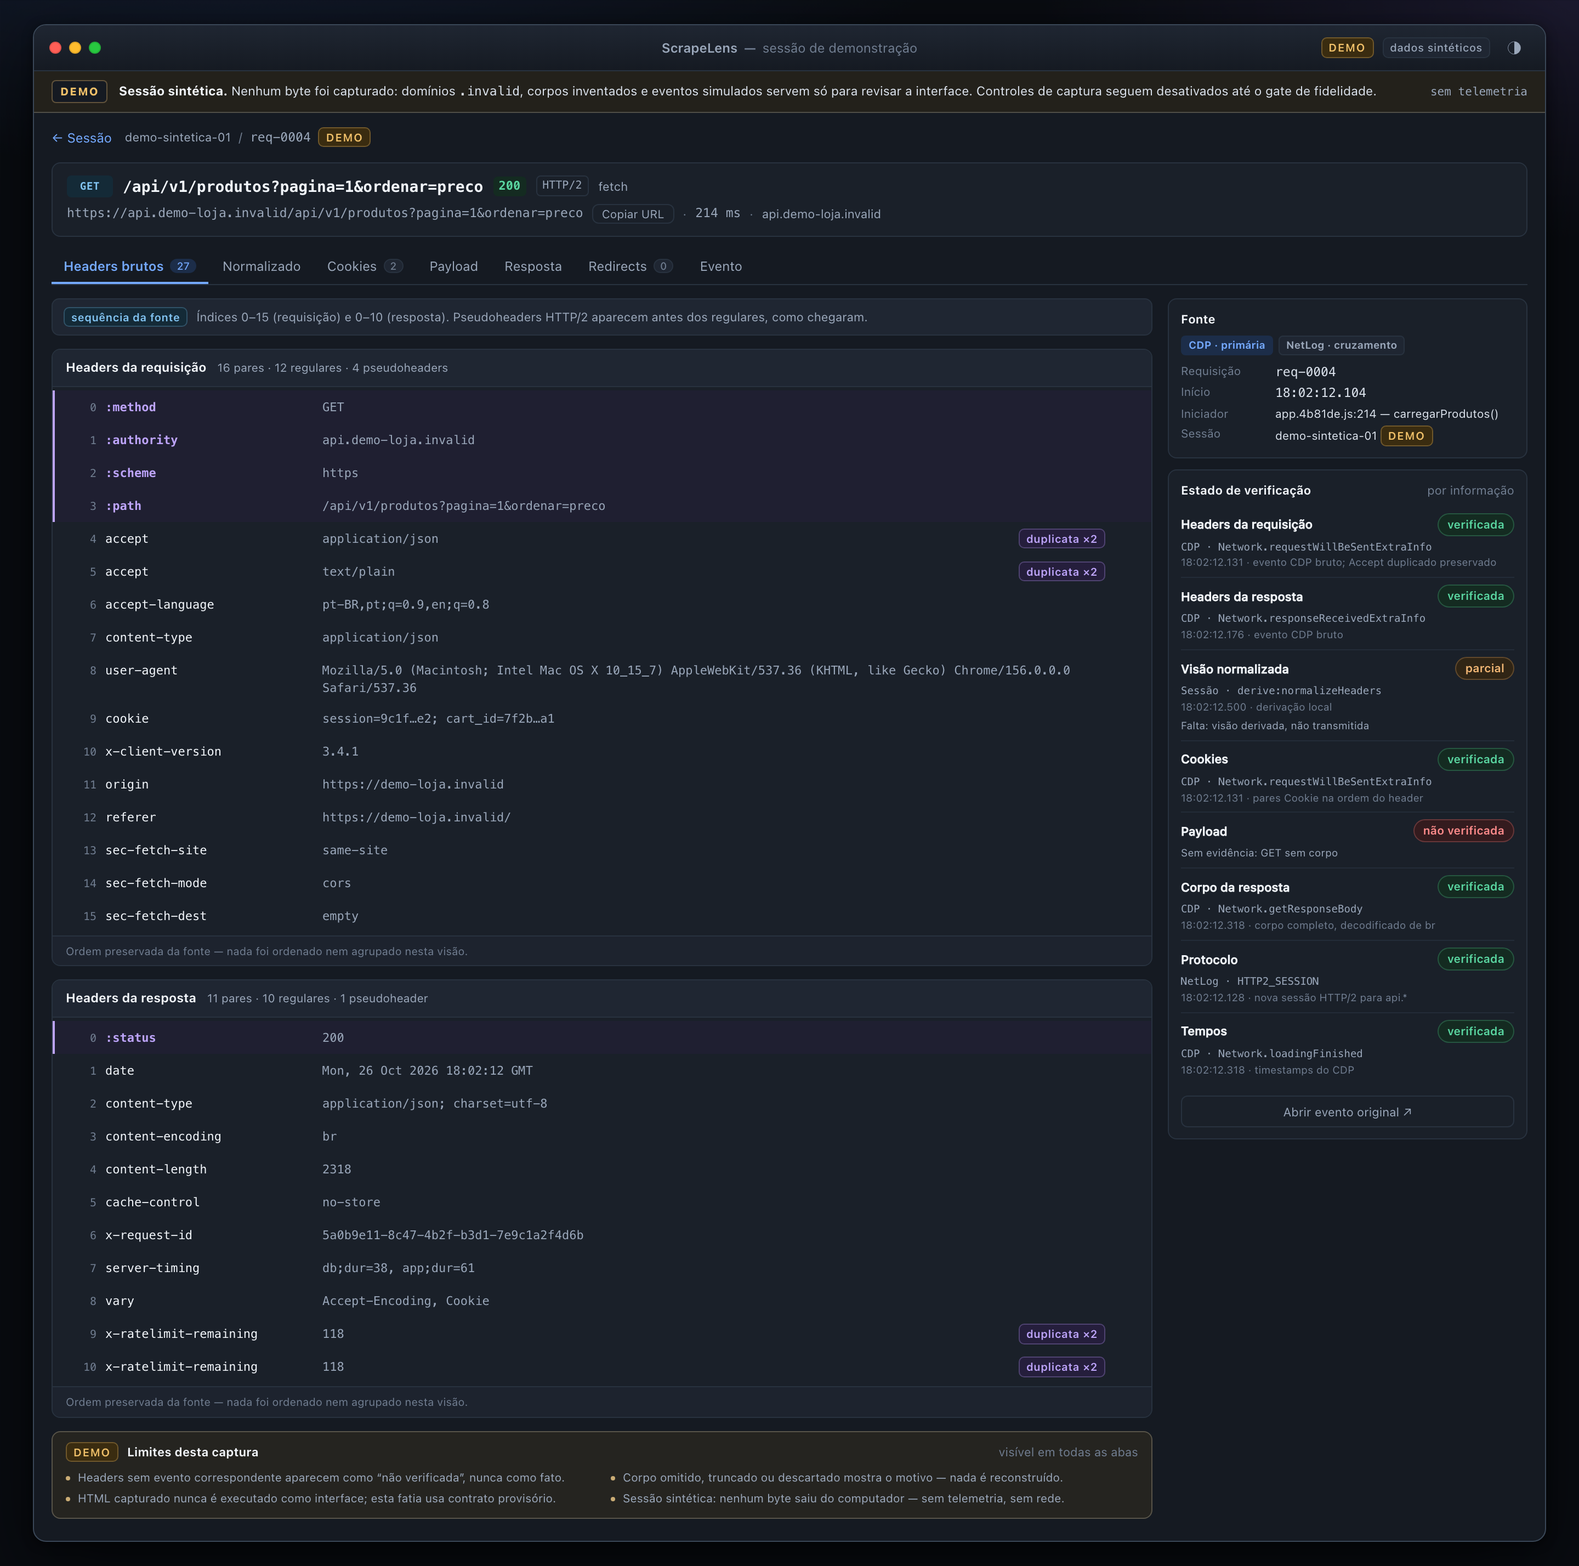
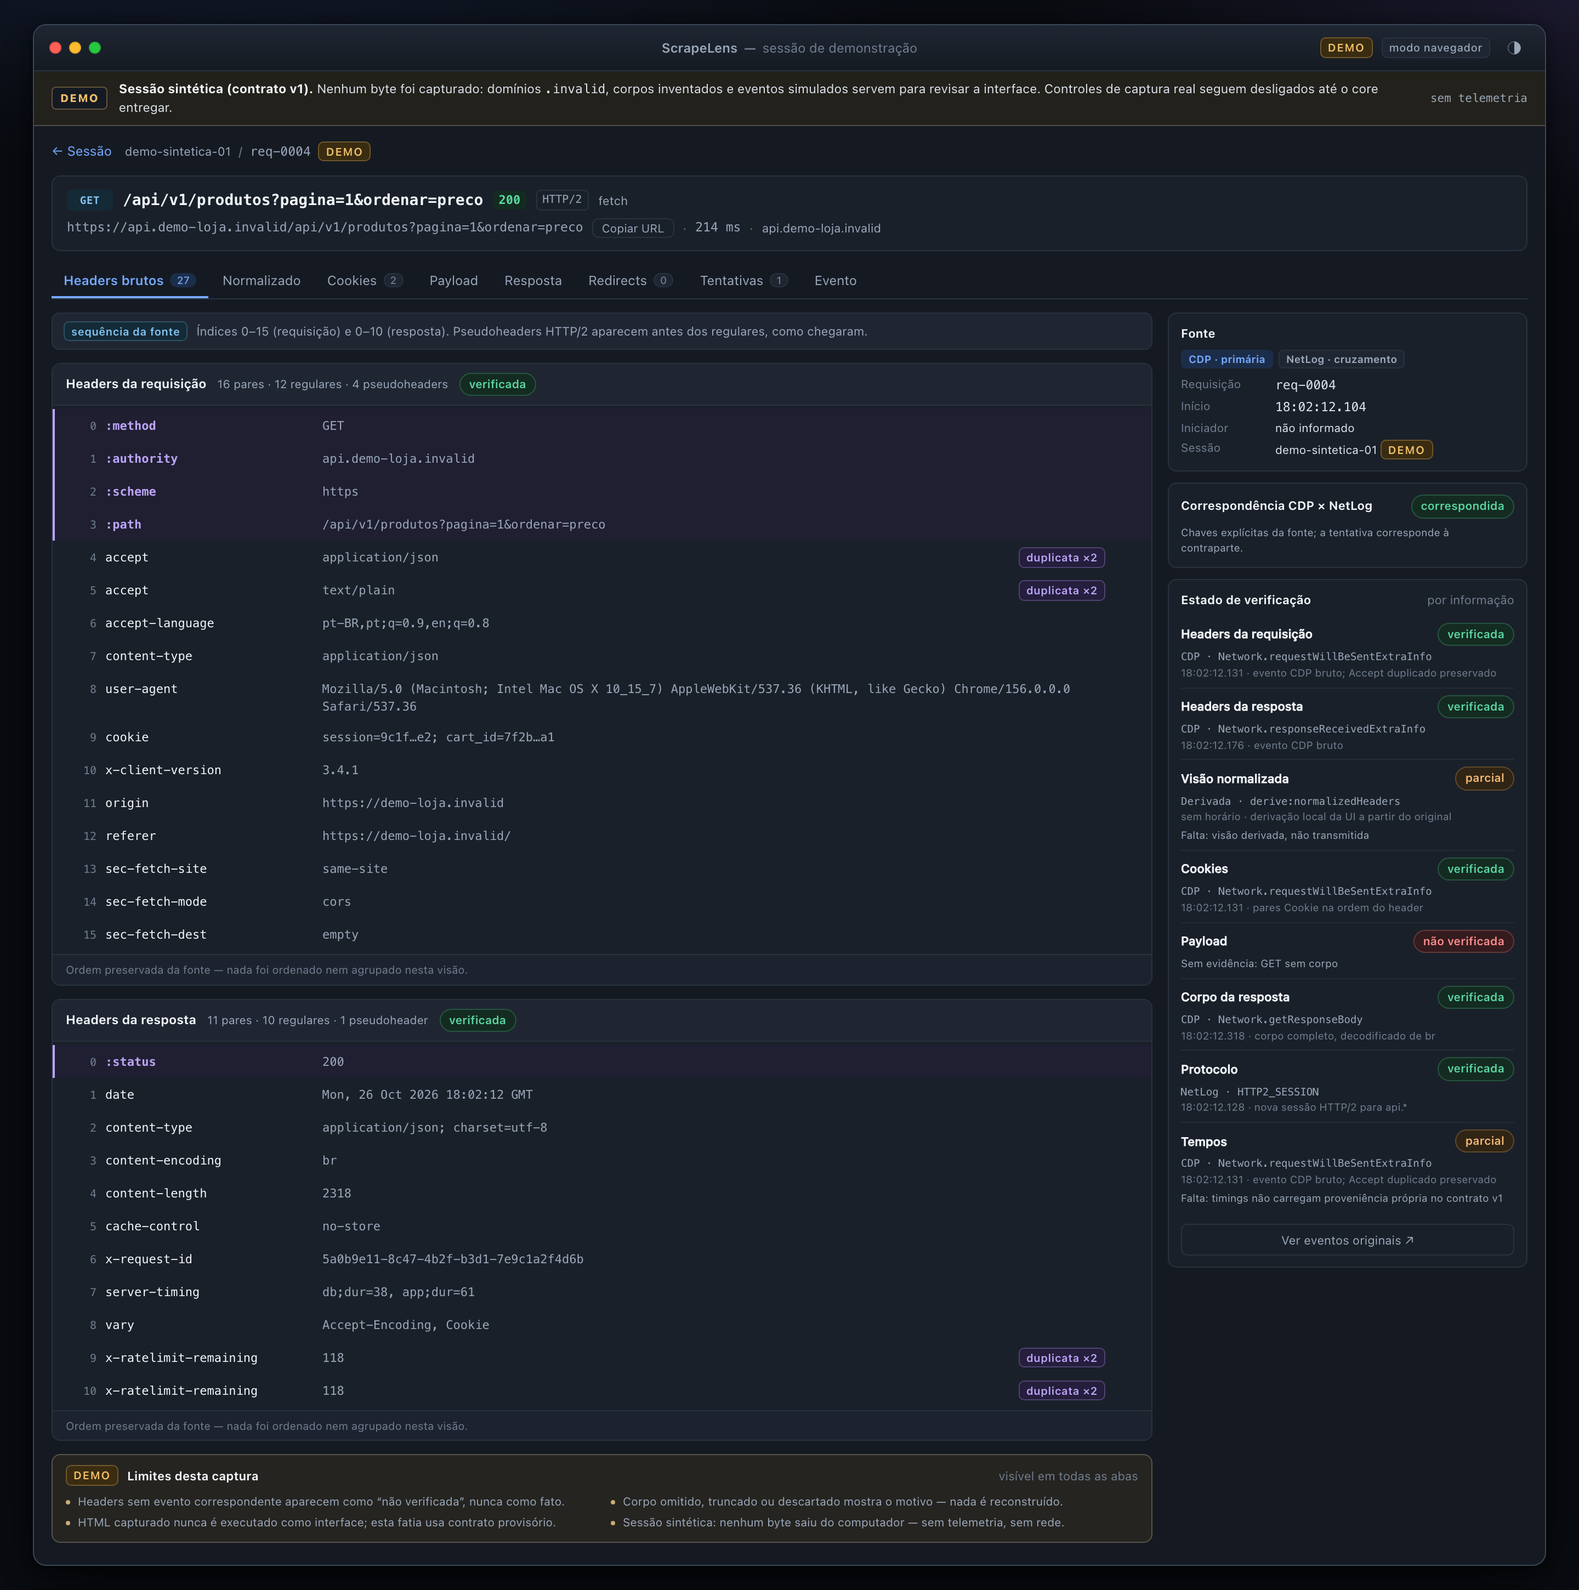
feat(app): add shortcuts, native actions and list virtualization on the v1 contract
- Tauri menu: open/import/demo/Chrome/search/theme wired to the UI
- virtualized list (24 rows for 12k requests; measurement in docs/perf)
- attempts panel, ambiguous match and per-request warnings
- raw Cookie + wire lines, parsed Set-Cookie, body attached with on-demand preview
- screenshots regenerated from the v1 fixture

diff --git a/app/src/App.tsx b/app/src/App.tsx
@@ -212,7 +212,17 @@ function HeaderBlock({
   );
 }
 
-function BodyPanel({ title, body, kind }: { title: string; body: BodyInfo; kind: "payload" | "response" }) {
+function BodyPanel({
+  title,
+  body,
+  kind,
+  onCopy,
+}: {
+  title: string;
+  body: BodyInfo;
+  kind: "payload" | "response";
+  onCopy?: (value: string, label: string) => void;
+}) {
   const flagged =
     body.availability === "truncated" ||
     body.availability === "discarded" ||
@@ -235,6 +245,11 @@ function BodyPanel({ title, body, kind }: { title: string; body: BodyInfo; kind:
           {body.attachment ? <span className="mono"> · {body.attachment}</span> : null}
         </span>
         <span className={`chip ${stateClass}`}>{availabilityLabels[body.availability]}</span>
+        {body.preview && onCopy && (
+          <button className="ghost-btn small" onClick={() => onCopy(body.preview!, title)} title="Copiar corpo como texto">
+            Copiar
+          </button>
+        )}
       </header>
       {flagged && (
         <div className={`body-flag flag-${body.availability}`}>
@@ -354,7 +369,7 @@ function bodyState(body: BodyInfo) {
   return availabilityLabels[body.availability];
 }
 
-function VerificationPanel({ req }: { req: RequestRecord }) {
+function VerificationPanel({ req, onOpenEvent }: { req: RequestRecord; onOpenEvent: () => void }) {
   const keys = Object.keys(verificationLabels) as VerificationKey[];
   return (
     <aside className="side-panel">
@@ -448,8 +463,12 @@ function VerificationPanel({ req }: { req: RequestRecord }) {
             );
           })}
         </ul>
-        <button className="ghost-btn wide" title="Abre o evento bruto que sustenta o primeiro dado verificado">
-          Abrir evento original ↗
+        <button
+          className="ghost-btn wide"
+          title="Ver a tabela de eventos brutos que sustentam estes dados"
+          onClick={onOpenEvent}
+        >
+          Ver eventos originais ↗
         </button>
       </div>
     </aside>
@@ -764,14 +783,14 @@ function DetailView({
 
           {tab === "payload" && (
             <>
-              <BodyPanel title="Payload da requisição" body={effectivePayload} kind="payload" />
+              <BodyPanel title="Payload da requisição" body={effectivePayload} kind="payload" onCopy={onCopy} />
               <BodyContext req={req} />
-              <BodyPanel title="Corpo da resposta (referência)" body={effectiveResponse} kind="response" />
+              <BodyPanel title="Corpo da resposta (referência)" body={effectiveResponse} kind="response" onCopy={onCopy} />
             </>
           )}
           {tab === "response" && (
             <>
-              <BodyPanel title="Corpo da resposta" body={effectiveResponse} kind="response" />
+              <BodyPanel title="Corpo da resposta" body={effectiveResponse} kind="response" onCopy={onCopy} />
               <BodyContext req={req} />
             </>
           )}
@@ -931,7 +950,7 @@ function DetailView({
           </section>
         </div>
 
-        <VerificationPanel req={req} />
+        <VerificationPanel req={req} onOpenEvent={() => setTab("event")} />
       </div>
     </div>
   );
@@ -1300,15 +1319,19 @@ export default function App() {
         if (action === "open") void openSession();
         else if (action === "import-har") void importCapture("har");
         else if (action === "import-netlog") void importCapture("netlog");
-        else if (action === "find") searchRef.current?.focus();
-        else if (action === "copy" && selected) void copy(selected.url, "URL");
+        else if (action === "choose-chrome") void chooseChrome();
+        else if (action === "find") {
+          setView("session");
+          window.setTimeout(() => searchRef.current?.focus(), 60);
+        } else if (action === "copy" && selected) void copy(selected.url, "URL");
         else if (action === "demo") void bridge.demoSession().then(applyPayload);
+        else if (action === "theme") setTheme((current) => (current === "light" ? "dark" : "light"));
       })
       .then((fn) => {
         dispose = fn;
       });
     return () => dispose();
-  }, [applyPayload, copy, importCapture, openSession, selected]);
+  }, [applyPayload, chooseChrome, copy, importCapture, openSession, selected]);
 
   useEffect(() => {
     const onKey = (event: KeyboardEvent) => {
@@ -1317,8 +1340,11 @@ export default function App() {
       const key = event.key.toLowerCase();
       if (key === "f") {
         event.preventDefault();
-        searchRef.current?.focus();
-        searchRef.current?.select();
+        setView("session");
+        window.setTimeout(() => {
+          searchRef.current?.focus();
+          searchRef.current?.select();
+        }, 60);
       } else if (key === "o") {
         event.preventDefault();
         void openSession();
@@ -1504,6 +1530,11 @@ export default function App() {
                   <strong>{notice.text}</strong>
                   {notice.detail && <span className="notice-detail mono"> {notice.detail}</span>}
                 </span>
+                {notice.kind === "error" && desktop && (
+                  <button className="ghost-btn small" onClick={() => void openSession()}>
+                    Escolher outro…
+                  </button>
+                )}
                 <button className="icon-btn" onClick={() => setNotice(null)} title="Fechar aviso">
                   ×
                 </button>

diff --git a/app/src/bridge.ts b/app/src/bridge.ts
@@ -22,7 +22,15 @@ export interface ChromeInfo {
   candidates: string[];
 }
 
-export type MenuAction = "open" | "import-har" | "import-netlog" | "find" | "copy" | "demo";
+export type MenuAction =
+  | "open"
+  | "import-har"
+  | "import-netlog"
+  | "choose-chrome"
+  | "find"
+  | "copy"
+  | "demo"
+  | "theme";
 
 export function isTauri(): boolean {
   return typeof window !== "undefined" && "__TAURI_INTERNALS__" in window;

diff --git a/app/src/styles.css b/app/src/styles.css
@@ -448,6 +448,7 @@ kbd {
 .table-wrap {
   flex: 1;
   overflow: auto;
+  max-height: calc(100vh - 300px);
   padding: 4px 0 0;
 }
 .req-table {

diff --git a/app/README.md b/app/README.md
@@ -1,66 +1,112 @@
-# ScrapeLens — fatia de interface (prévia, sessão sintética)
+# ScrapeLens — app macOS (Tauri 2) + interface React
 
-Prévia navegável da interface pedida pelo usuário **antes** do gate de fidelidade.
-Serve para revisar hierarquia, densidade, estados de verificação e tema. Não é a
-interface final e não captura nada.
+Implementação do shell desktop e da interface sobre o **contrato v1**
+(`docs/03-contratos.md`). A UI não tem contrato próprio: consome `session.json`
+v1 via `core/` e via commands Tauri.
 
-## O que é real aqui
+## Estado atual (onda 2)
 
-- Componentes React + TypeScript, CSS, build Vite, tema claro/escuro.
-- A lógica de listagem, busca, filtros, normalização de headers **derivada** e o
-  diff de headers (adicionados/removidos/alterados/reordenados) com pareamento de
-  repetidos por valor.
-- Prints gerados por Chromium real (Playwright) a partir do build.
+- **Tauri 2** com janela única, menu nativo do macOS e diálogos nativos.
+- **Atalhos**: ⌘O (abrir captura), ⌘F (buscar), ⌘C (copiar URL da requisição
+  selecionada quando não há texto selecionado). O menu Editar mantém copiar/
+  colar nativos.
+- **Tema claro/escuro** com escolha persistida em `localStorage` e padrão do
+  sistema.
+- **Chrome**: detecção automática em `/Applications` e seleção manual por
+  diálogo nativo (`Selecionar Chrome…` no menu Arquivo ou no aviso da tela).
+- **Commands prontos** para o core: `start_session`, `stop_session`,
+  `open_session`, `import_har`, `import_netlog`, `demo_session`,
+  `detect_chrome`, `set_chrome_path`, `read_attachment`, `reveal_path`,
+  `app_info`.
+- **Leitura real de sessão v1** (`open_session`): valida `schemaVersion`, lê
+  `session.json`, preserva a pasta para anexos e marca sessão parcial quando a
+  fonte declara `completeness.partial`. Sessões com `synthetic-fixture` nunca
+  aparecem como reais.
+- **Pendências explícitas**: captura ao vivo e importadores HAR/NetLog dependem
+  do `core/`. Até lá os commands devolvem a fixture demo **rotulada**
+  (`synthetic: true`, `pending: true`) e um aviso na tela. Nenhum Chrome é
+  aberto por este app ainda.
+- **Lista virtualizada** (linha de 34 px, overscan): 12.000 requisições
+  renderizam 24 linhas e 437 nós de DOM; ver `docs/perf/virtualization.json`.
 
-## O que é sintético / desligado
+## Contrato v1 na UI
 
-- Toda a sessão `demo-sintetica-01`: 13 requisições inventadas em domínios
-  `.invalid`, corpos fictícios, eventos e timestamps simulados. A tela marca
-  **DEMO / dados sintéticos** no título, no banner, na sessão e no rodapé.
-- Iniciar/Encerrar/Abrir captura estão **desativados** com o motivo visível:
-  captura ao vivo e importadores dependem da matriz de fidelidade e do contrato
-  oficial.
-- Copiar valores, abrir evento original e alternar abas são interações de UI sem
-  integração nativa ainda.
-- Sem Tauri nesta fatia (rodou no navegador para os prints, como autorizado).
-- Sem telemetria, sem rede, sem persistência.
+`src/v1/types.ts` projeta `core/src/model/*.rs`; `src/v1/adapter.ts` converte
+para o modelo de tela:
 
-## Contrato
+- headers como arrays ordenados (`pseudoHeaders` + `headers`), duplicatas
+  preservadas e ordem nunca refeita;
+- visão normalizada é derivada e marcada como parcial;
+- `verification` por informação (verified/partial/unverified) com fonte, evento,
+  horário, método e nota; “não verificada” aparece literalmente;
+- `Cookie` mostra campo bruto, pares e linhas do fio separadamente;
+- `Set-Cookie` bruto + atributos parseados, com erro de parse visível;
+- corpos usam `Body.state` (`captured`, `empty`, `truncated`, `unavailable`,
+  `discarded`) com motivo explícito e anexo indicado;
+- `attempts`, `redirects` e `match` (matched/ambiguous/unmatched) com candidatos
+  à mostra quando ambíguo;
+- HTML capturado é sempre texto, nunca interface.
 
-`CONTRACT-DRAFT.md` define o contrato **provisório** de sessão usado pelos tipos
-em `src/types.ts`. Ele existe só para destravar esta fatia e será substituído por
-`docs/03-contratos.md` (dono: líder). O ponto de troca é `src/demo/session.ts`
-(dados) e `src/types.ts` (formas).
+O rascunho `CONTRACT-DRAFT.md` fica como histórico da onda 1 e está marcado
+como substituído.
 
 ## Rodar
+
+Pré-requisitos de desenvolvimento: Node + Rust + Xcode Command Line Tools.
+O app empacotado não exige Node, Python ou Rust.
+
+```sh
+# na raiz do repositório
+./app/node_modules/.bin/tauri dev
+./app/node_modules/.bin/tauri build --bundles app
+# saída: src-tauri/target/release/bundle/macos/ScrapeLens.app
+```
+
+Ou pelos scripts do `app/`:
 
 ```sh
 cd app
 npm install
-npm run dev        # http://localhost:5173
-npm run build      # gera dist/
-npm run shots      # build já pronto → PNGs em ../docs/screenshots/
-npm run typecheck
+npm run dev            # UI no navegador (modo demo, sem commands)
+npm run build
+npm run shots          # prints em ../docs/screenshots
+npm run perf           # mede a virtualização (docs/perf)
+npm run desktop:dev    # Tauri dev (a partir de app/)
+npm run desktop:build  # .app local, sem certificado Apple
 ```
 
-Parâmetros de URL úteis para abrir um estado direto:
+> O build local é **não assinado** (sem certificado Apple). Para distribuir,
+> assinatura e notarização são necessárias — não foram feitas e nada foi
+> publicado.
 
+## Commands e payload
+
+Todos os commands de sessão devolvem o mesmo envelope:
+
+```json
+{
+  "session": { "schemaVersion": 1, "session": {...}, "requests": [...] },
+  "sessionDir": "/caminho/da/sessao",
+  "synthetic": false,
+  "notice": "Sessão aberta: 13 requisição(ões).",
+  "pending": false
+}
 ```
-?view=session&theme=dark
-?view=detail&id=req-0004&tab=headers   # headers|normalized|cookies|payload|response|redirects|event
-?view=compare&a=req-0009&b=req-0010
-```
 
-## Prints
+`pending: true` significa “o core ainda não executou esta etapa”; a UI mostra o
+aviso e mantém a sessão demo rotulada. Ao plugar o core, só o corpo de
+`start_session`/`import_har`/`import_netlog` muda.
 
-`../docs/screenshots/` — `01`…`11`, com principal, detalhe e comparação em claro
-e escuro. Gerados em 1440 px CSS, escala 2×.
+## Limites desta entrega
 
-## Limites conhecidos
-
-- Diálogos nativos, atalhos reais (⌘O/⌘F/⌘C), seleção manual do Chrome e
-  empacotamento Tauri não estão nesta fatia.
-- Importação grande/streaming não foi exercitada: a sessão demo é pequena.
-- O diff cobre headers de requisição, headers de resposta, cookies enviados,
-  corpo e protocolo; cookies recebidos aparecem na tela de detalhe, ainda não no
-  diff.
+- Captura ao vivo, importadores HAR/NetLog e o launcher de Chrome pertencem ao
+  `core/` e ainda não estão conectados.
+- Diálogo nativo existe para abrir sessão e escolher Chrome; não há ainda
+  “Salvar como”/exportação na UI.
+- Tema acompanha o sistema na primeira execução; não há sincronização com o
+  tema do WebView do macOS além da classe do app.
+- Assinatura/notarização e builds Intel não foram feitos nem testados; a máquina
+  é Apple Silicon (arm64). Arquiteturas compiladas ≠ testadas.
+- A prévia de corpo de sessões reais é carregada por `read_attachment` (limite
+  de 1 MiB); binários não são convertidos em texto.
+- Nenhuma telemetria, nenhuma rede em runtime.

diff --git a/docs/screenshots/README.md b/docs/screenshots/README.md
@@ -1,25 +1,29 @@
-# Prints da fatia de interface — sessão sintética (DEMO)
+# Prints da interface — contrato v1 (sessão sintética, DEMO)
 
-Gerados a partir de `app/` (React + TypeScript + Vite), renderizados em Chromium
-real via Playwright em 1440 px CSS, escala 2×. Todos os dados são **sintéticos** e
-a própria interface marca `DEMO` / `dados sintéticos` no título, no banner, na
-sessão e no rodapé — nada foi capturado de um site real.
+Gerados a partir de `app/` (React 19 + TypeScript + Vite) sobre a fixture v1,
+renderizados em Chromium real via Playwright a 1440 px CSS, escala 2×. A sessão
+inteira é **sintética** (`synthetic-fixture` + rótulos `DEMO` na tela, domínios
+`.invalid`). Nada foi capturado de um site real.
 
 | Arquivo | O que mostra |
 |---|---|
-| `01-principal-claro.png` | Tela principal, tema claro: controles de sessão desativados com motivo, busca, filtros, 13 requisições com método/domínio/caminho/status/protocolo/tipo/duração |
-| `02-principal-escuro.png` | Mesma tela em tema escuro |
-| `03-detalhe-headers-claro.png` | Detalhe: headers na sequência da fonte, pseudoheaders, duplicatas, sidebar de fonte e verificação por informação |
-| `04-detalhe-headers-escuro.png` | Mesmo detalhe em tema escuro |
-| `05-detalhe-normalizado-claro.png` | Visão normalizada claramente identificada (agrupada, ordenada, duplicatas contadas) |
-| `06-detalhe-cookies-claro.png` | Cookies enviados/paras internos, `Set-Cookie` recebidos com atributos, linhas brutas |
-| `07-detalhe-payload-claro.png` | Payload POST, metadados de conteúdo e corpo da resposta de referência |
-| `08-detalhe-redirects-escuro.png` | Cadeia HTTP/1.1 → HTTP/2 com dois hops e evidência por hop (tema escuro) |
-| `09-comparacao-claro.png` | Comparação A/B: adicionados, removidos, alterados e reordenados; cookies e corpo |
-| `10-comparacao-escuro.png` | Mesma comparação em tema escuro |
-| `11-detalhe-verificacao-escuro.png` | Caso NetLog-only: headers de requisição ausentes, “não verificada”, duração estimada `≈` |
+| `01-principal-claro.png` | Tela principal: controles de captura (desligados com motivo), busca, filtros, 13 requisições com status/protocolo/tipo/duração |
+| `02-principal-escuro.png` | Mesma tela no tema escuro |
+| `03-detalhe-headers-claro.png` | Headers na sequência da fonte (pseudoheaders + duplicatas), verificação por informação, correspondência CDP×NetLog |
+| `04-detalhe-headers-escuro.png` | Mesmo detalhe no tema escuro |
+| `05-detalhe-normalizado-claro.png` | Visão normalizada derivada e identificada (agrupada, ordenada, duplicatas contadas) |
+| `06-detalhe-cookies-claro.png` | Cookie bruto + pares + linhas do fio; Set-Cookie bruto com atributos |
+| `07-detalhe-payload-claro.png` | Payload POST, metadados, prévia de resposta e regras de exibição |
+| `08-detalhe-redirects-escuro.png` | Cadeia HTTP/1.1 → HTTP/2 com dois hops e evidência por hop |
+| `09-comparacao-claro.png` | Comparação A/B: adicionados, removidos, alterados, reordenados; cookies e corpo |
+| `10-comparacao-escuro.png` | Mesma comparação no tema escuro |
+| `11-detalhe-verificacao-escuro.png` | Caso NetLog-only: headers ausentes, “não verificada”, duração estimada `≈` |
 | `12-principal-busca-claro.png` | Busca “produtos” com contagem “2 de 13” |
-| `13-principal-filtro-erros-escuro.png` | Filtro “Erros 4xx/5xx” (403, 403, 401) em tema escuro |
+| `13-principal-filtro-erros-escuro.png` | Filtro “Erros 4xx/5xx” (403, 403, 401) |
+| `14-lista-12k-virtualizada.png` | Lista virtualizada com 12.000 requisições sintéticas (24 linhas no DOM) |
+| `15-detalhe-tentativas-ambigua.png` | Tentativas + correspondência ambígua com candidatos explícitos |
 
-Contrato provisório da sessão de demonstração: `app/CONTRACT-DRAFT.md`.
-Instruções de execução e limites: `app/README.md`.
+Contrato oficial: `docs/03-contratos.md`. Decisões: `docs/01-decisoes.md`.
+Contrato provisório da onda 1 (histórico): `app/CONTRACT-DRAFT.md`.
+Instruções do app, commands e limites: `app/README.md`.
+Medição de virtualização: `docs/perf/virtualization.json`.

diff --git a/app/CONTRACT-DRAFT.md b/app/CONTRACT-DRAFT.md
@@ -1,5 +1,10 @@
 # Contrato de sessão — RASCUNHO (provisório, não oficial)
 
+> **SUBSTITUÍDO na onda 2.** O contrato oficial é `docs/03-contratos.md`
+> (formato de sessão v1), com decisões em `docs/01-decisoes.md`. A UI consome
+> `src/v1/types.ts` + `src/v1/adapter.ts` desde o commit da onda 2. Este arquivo
+> fica apenas como histórico da onda 1.
+
 Status: **provisório**, escrito pelo dono de `app/` para destravar a fatia de UI.
 Substitui nada: o contrato oficial será `docs/03-contratos.md` (dono: líder).
 Quando o oficial existir, este arquivo é descartado e o adaptador em
